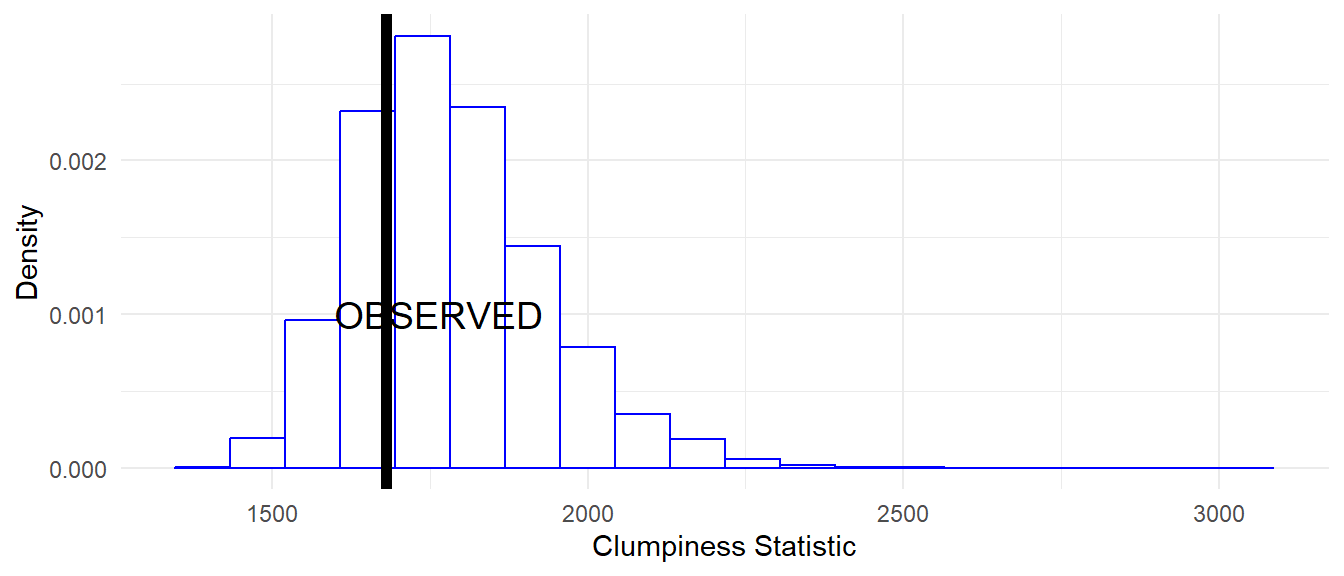
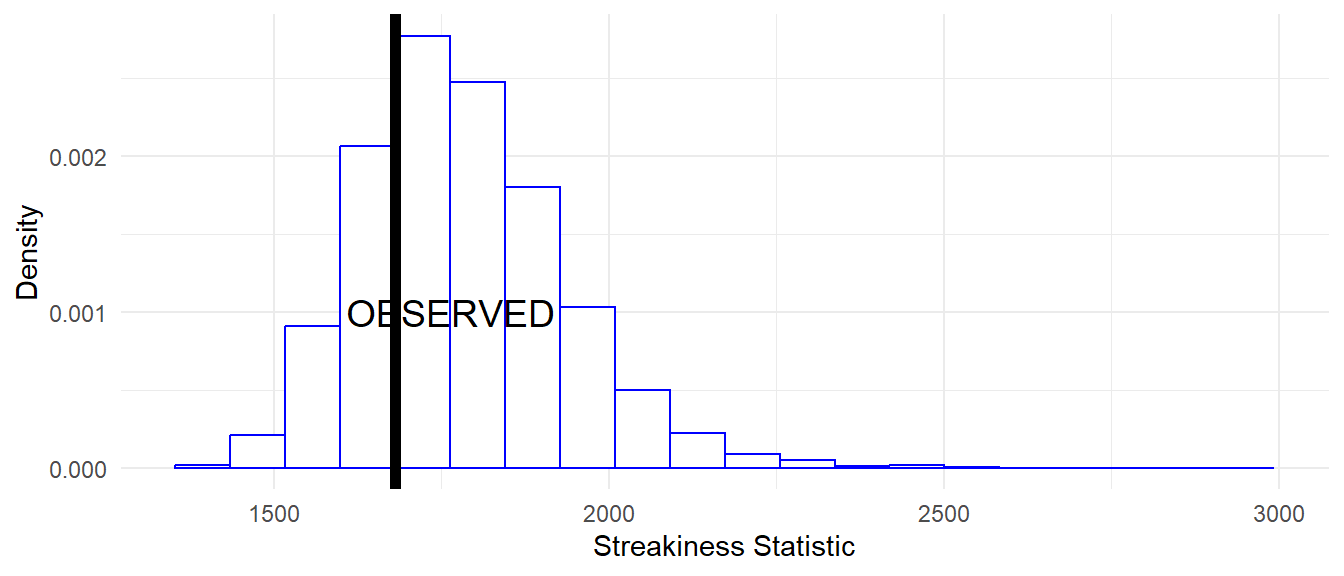
add lesson 23

diff --git a/_site/index.html b/_site/index.html
@@ -194,6 +194,14 @@ ul.task-list li input[type="checkbox"] {
     <a class="dropdown-item" href="./lessons/lsn_21_simulation_II.html">
  <span class="dropdown-text">Lesson 21: Simulating Baseball - Part II</span></a>
   </li>  
+        <li>
+    <a class="dropdown-item" href="./lessons/lsn_22_the_great_streak.html">
+ <span class="dropdown-text">Lesson 22: Baseball Streaks - The Great Streak</span></a>
+  </li>  
+        <li>
+    <a class="dropdown-item" href="./lessons/lsn_23_streakiness_statistics.html">
+ <span class="dropdown-text">Lesson 23: Baseball Streaks - Streakiness Statistics</span></a>
+  </li>  
     </ul>
   </li>
   <li class="nav-item">
